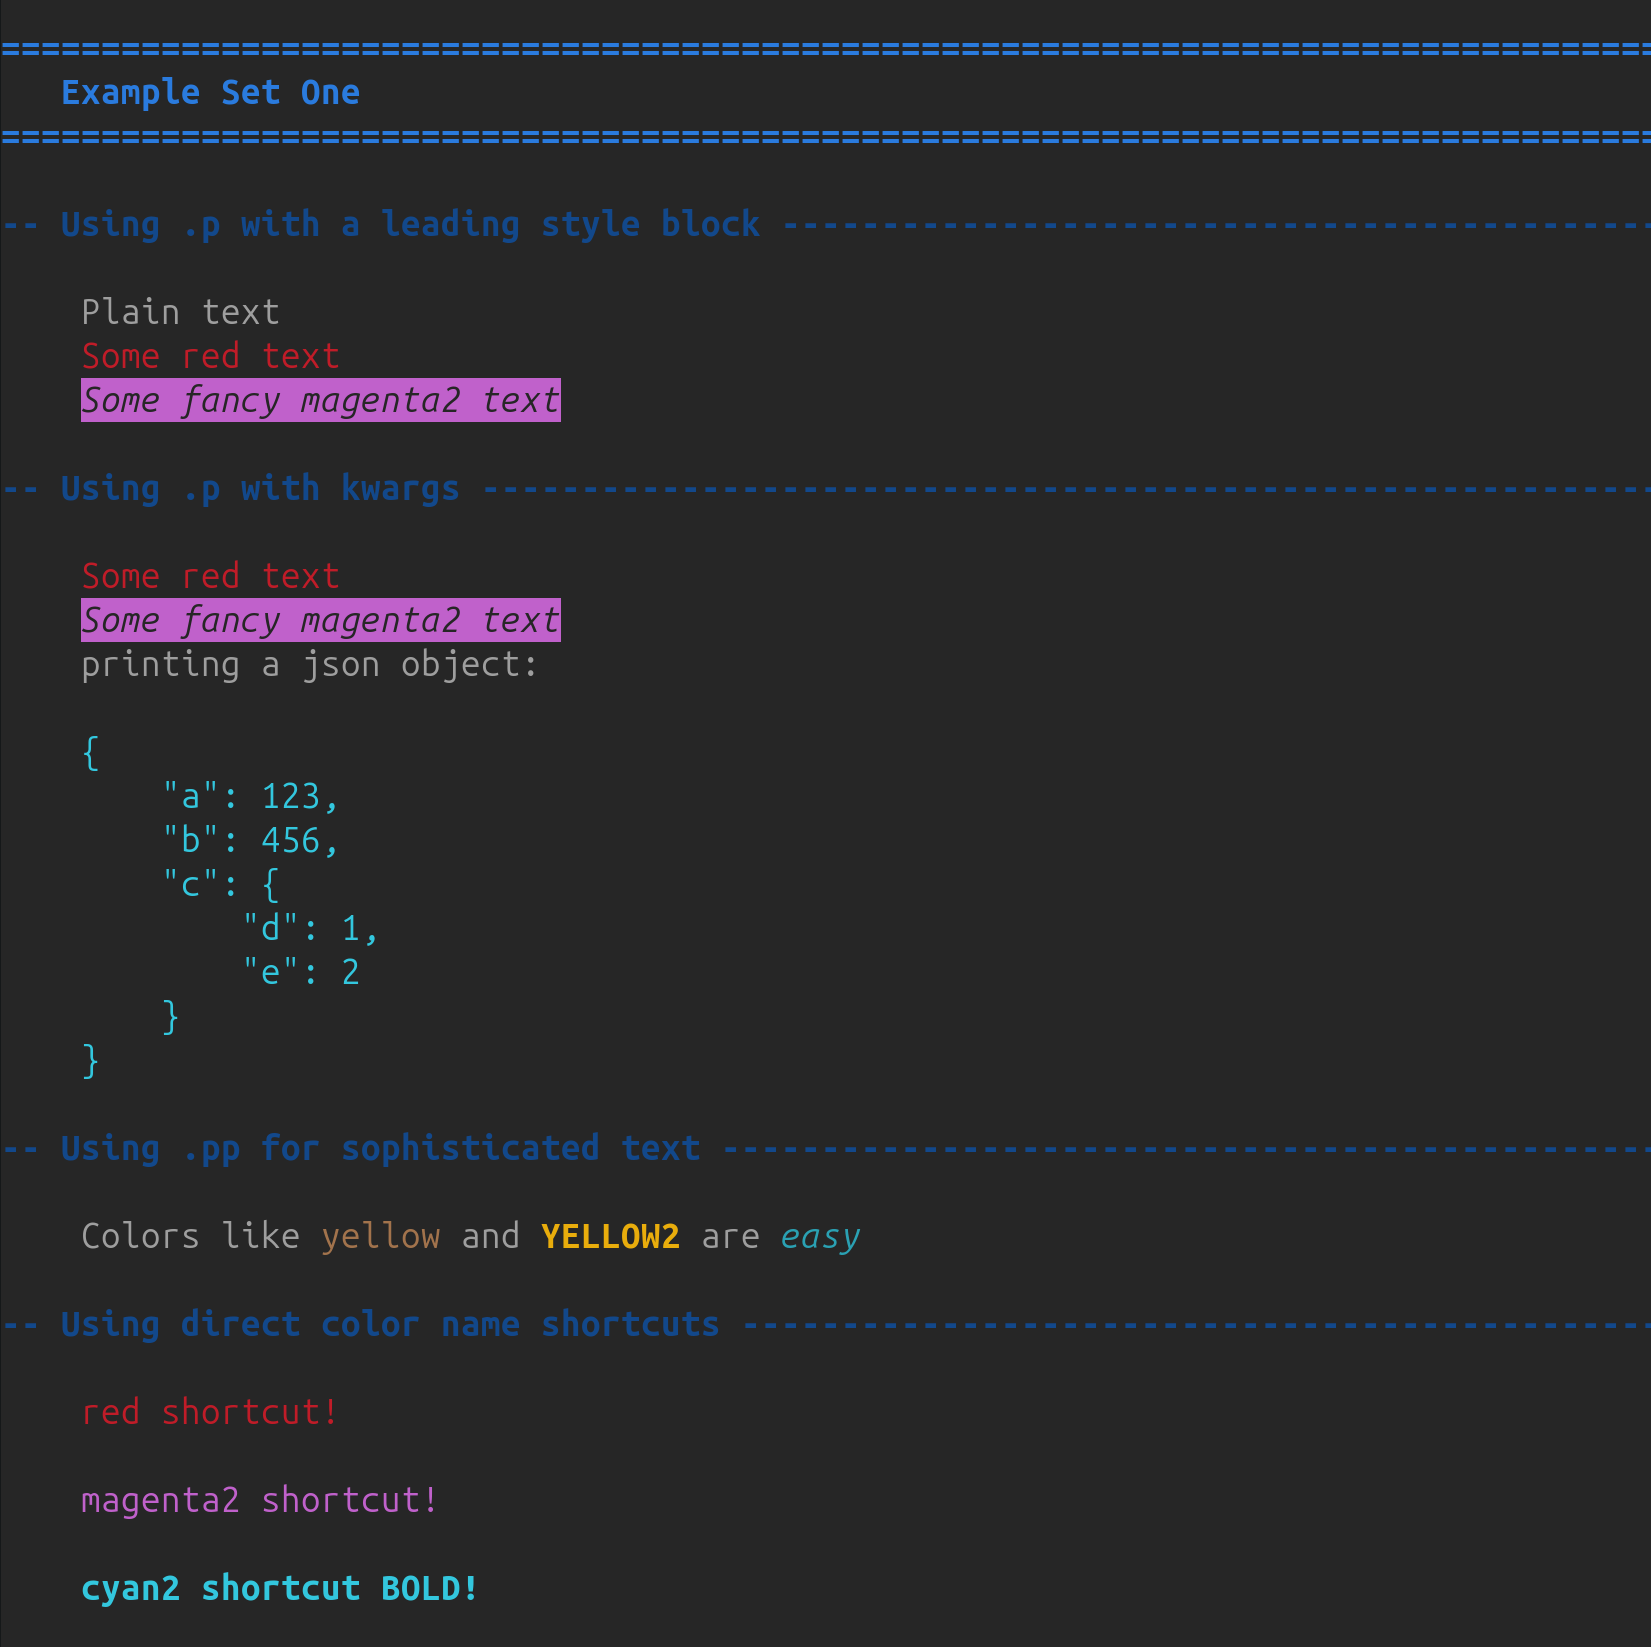
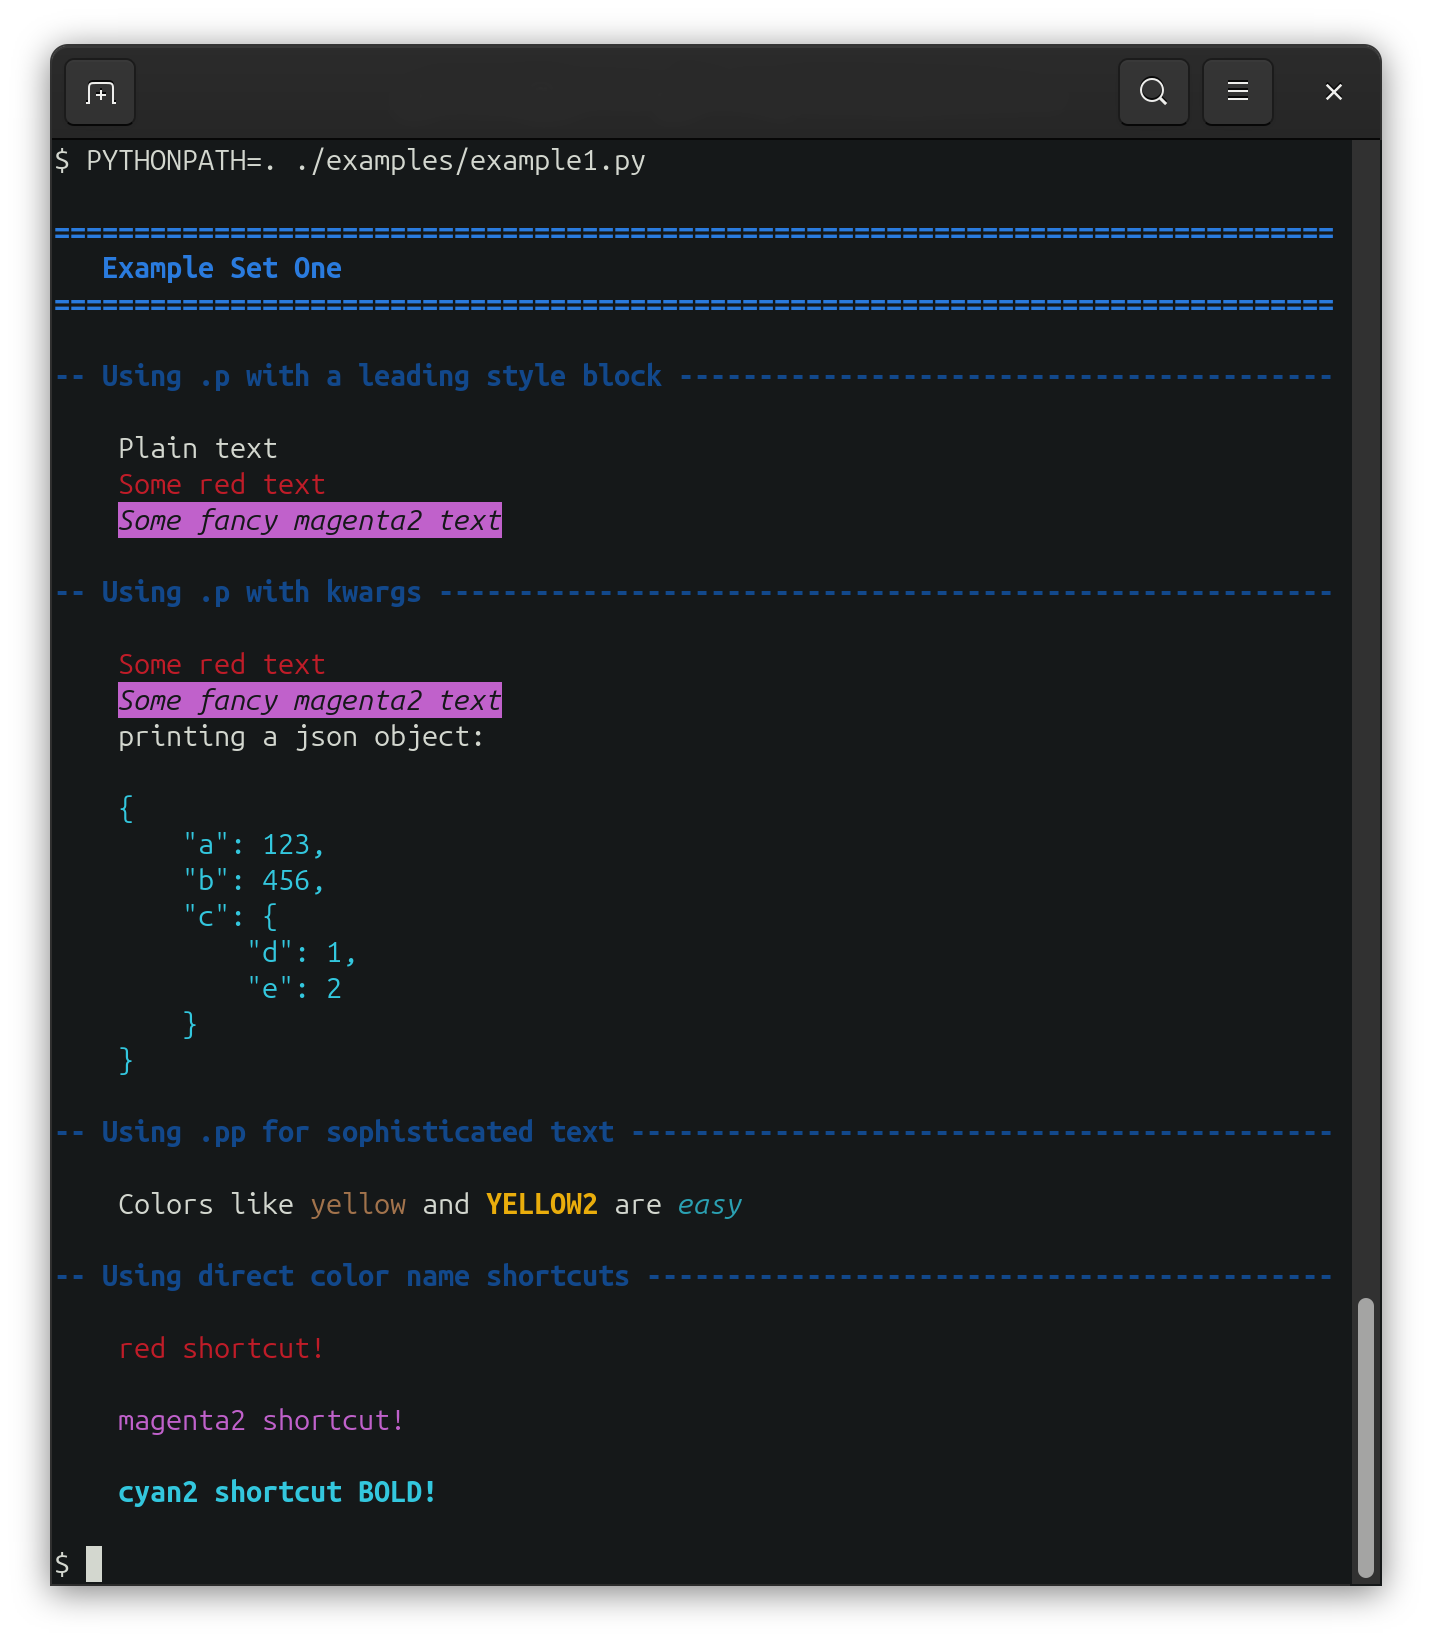
Update the README.

Changed region(s): [[0.0, 0.0, 1.0, 1.0], [0.6453, 0.7765, 0.7374, 0.8076]]

diff --git a/README.md b/README.md
@@ -10,13 +10,12 @@ but is intentionally designed for supporting easier to read output from python p
 ## Simple Example
 
 ```python
-from terminalprinter import StyledTerminalPrinter
+from styledterm import StyledTerminalPrinter
 
-# Setup our printer
-P = StyledTerminalPrinter(default_header_color="yellow")
+P = StyledTerminalPrinter(default_header_color={"H1":"blue2","H4":"blue"})
 P.default_header_center = False
+P.curr_auto_indent_level = 1
 
-#=> We have different "header" output baked in
 P.H1("Example Set One")
 
 P.H4("Using .p with a leading style block")
@@ -30,9 +29,17 @@ P.p("Some fancy magenta2 text",color="magenta2",styles=["reverse","italic"])
 P.p("printing a json object:")
 P.pjson({"a":123,"b":456,"c":{"d":1,"e":2}},color="cyan2")
 
-P.H4("Using .pp for text with interior styling")
+P.H4("Using .pp for sophisticated text")
 text = "Colors like [yellow]yellow[/] and [yellow2][bold]YELLOW2[/] are [cyan][italic]easy[/]"
 P.pp(text)
+
+P.H4("Using direct color name shortcuts")
+P.red("red shortcut!")
+P.nl()
+P.magenta2("magenta2 shortcut!")
+P.nl()
+P.cyan2("cyan2 shortcut BOLD!",bold=True)
+P.nl()
 ```
 
 ![Image of the above code in the terminal](./images/example1-screenshot.png)
